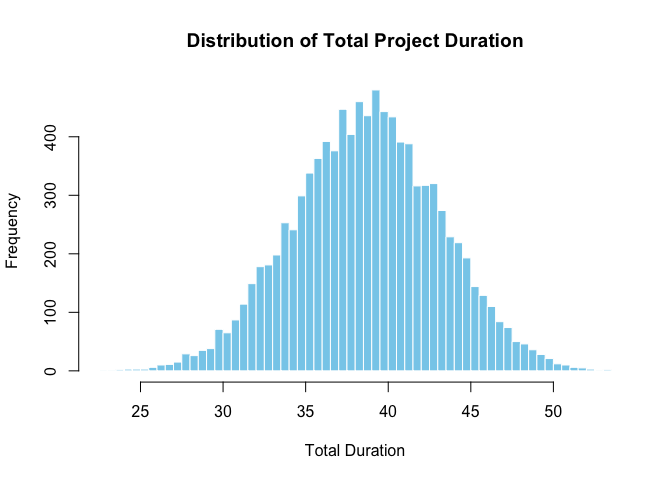
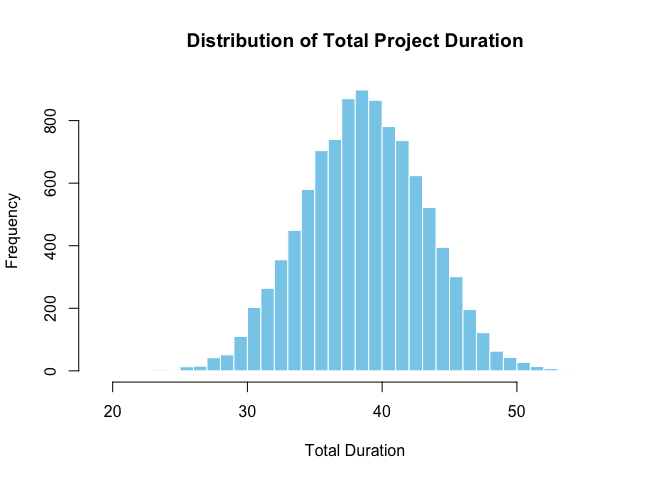
Add tests

diff --git a/README.md b/README.md
@@ -7,6 +7,10 @@
 
 [![Lifecycle:
 experimental](https://img.shields.io/badge/lifecycle-experimental-orange.svg)](https://lifecycle.r-lib.org/articles/stages.html#experimental)
+[![CRAN
+status](https://www.r-pkg.org/badges/version/PRA)](https://CRAN.R-project.org/package=PRA)
+[![Codecov test
+coverage](https://codecov.io/gh/paulgovan/PRA/branch/main/graph/badge.svg)](https://app.codecov.io/gh/paulgovan/PRA?branch=main)
 <!-- badges: end -->
 
 Data Analysis for Project Risk Managment via the Second Moment Method
@@ -43,12 +47,12 @@ correlation_matrix <- matrix(c(
 
 results <- mcs(num_simulations, task_distributions, correlation_matrix)
 cat("Mean Total Duration:", results$total_mean, "\n")
-#> Mean Total Duration: 38.69081
+#> Mean Total Duration: 38.66335
 ```
 
 ``` r
 cat("Variance of Total Duration:", results$total_variance, "\n")
-#> Variance of Total Duration: 19.54678
+#> Variance of Total Duration: 19.81134
 ```
 
 ``` r
